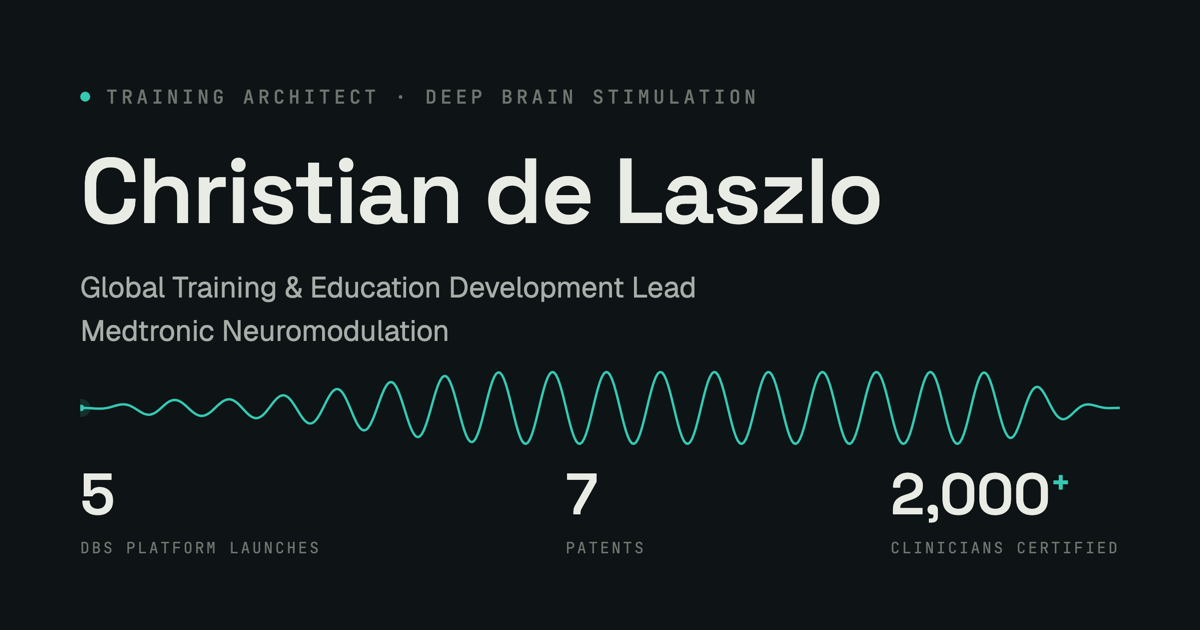
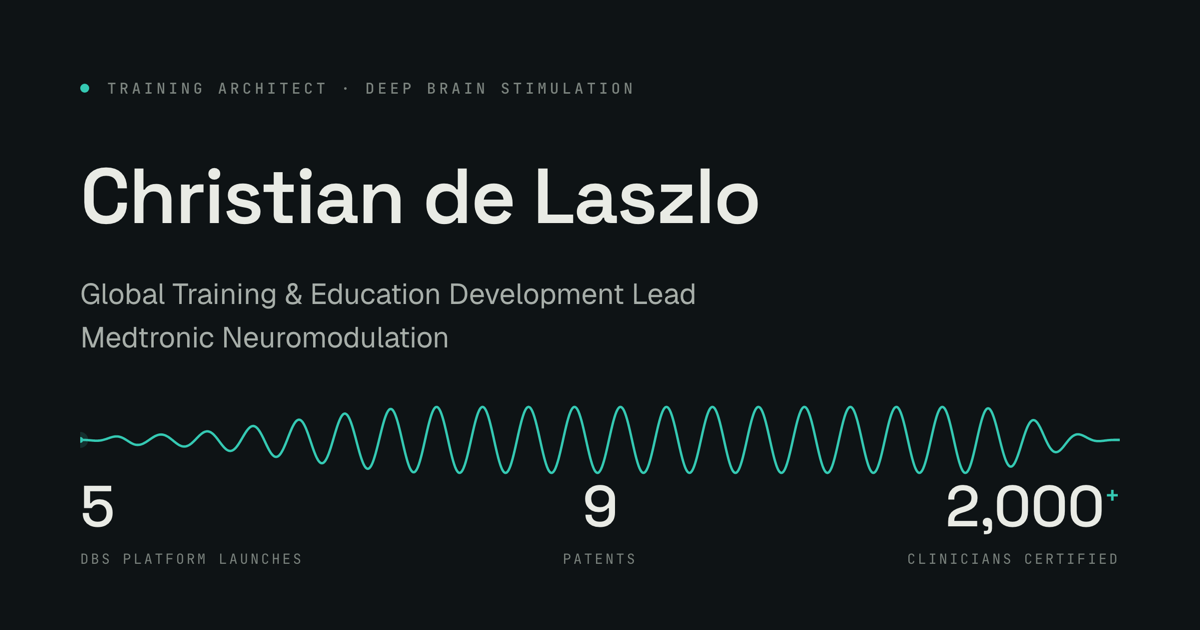
Two 2026 patents (lead inventor); drop section index numerals

diff --git a/index.html b/index.html
@@ -5,7 +5,7 @@
 <meta name="viewport" content="width=device-width, initial-scale=1" />
 <title>Christian de Laszlo · Training Architect, Deep Brain Stimulation</title>
 
-<meta name="description" content="Christian de Laszlo is Global Training &amp; Education Development Lead at Medtronic Neuromodulation. Training architect for Deep Brain Stimulation, 7 patents, and a recognized voice on AI in neuromodulation." />
+<meta name="description" content="Christian de Laszlo is Global Training &amp; Education Development Lead at Medtronic Neuromodulation. Training architect for Deep Brain Stimulation, 9 patents, and a recognized voice on AI in neuromodulation." />
 <meta name="author" content="Christian de Laszlo" />
 <meta name="robots" content="index, follow" />
 <link rel="canonical" href="https://www.cdelaszlo.com/" />
@@ -13,18 +13,18 @@
 <!-- Open Graph (link previews: LinkedIn, Slack, iMessage) -->
 <meta property="og:type" content="profile" />
 <meta property="og:title" content="Christian de Laszlo · Training Architect, Deep Brain Stimulation" />
-<meta property="og:description" content="Global Training &amp; Education Development Lead at Medtronic Neuromodulation. 5 DBS platform launches, 7 patents, 2,000+ clinicians certified. AI in neuromodulation." />
+<meta property="og:description" content="Global Training &amp; Education Development Lead at Medtronic Neuromodulation. 5 DBS platform launches, 9 patents, 2,000+ clinicians certified. AI in neuromodulation." />
 <meta property="og:url" content="https://www.cdelaszlo.com/" />
-<meta property="og:image" content="https://www.cdelaszlo.com/og-image.png?v=2" />
+<meta property="og:image" content="https://www.cdelaszlo.com/og-image.png?v=3" />
 <meta property="og:image:width" content="1200" />
 <meta property="og:image:height" content="630" />
-<meta property="og:image:alt" content="Christian de Laszlo — Training Architect, Deep Brain Stimulation. 5 DBS platform launches, 7 patents, 2,000+ clinicians certified." />
+<meta property="og:image:alt" content="Christian de Laszlo — Training Architect, Deep Brain Stimulation. 5 DBS platform launches, 9 patents, 2,000+ clinicians certified." />
 
 <!-- Twitter/X card -->
 <meta name="twitter:card" content="summary_large_image" />
 <meta name="twitter:title" content="Christian de Laszlo · Training Architect, Deep Brain Stimulation" />
-<meta name="twitter:description" content="Global Training &amp; Education Development Lead at Medtronic Neuromodulation. 5 DBS platform launches, 7 patents, 2,000+ clinicians certified." />
-<meta name="twitter:image" content="https://www.cdelaszlo.com/og-image.png?v=2" />
+<meta name="twitter:description" content="Global Training &amp; Education Development Lead at Medtronic Neuromodulation. 5 DBS platform launches, 9 patents, 2,000+ clinicians certified." />
+<meta name="twitter:image" content="https://www.cdelaszlo.com/og-image.png?v=3" />
 
 <meta name="google-site-verification" content="dpwuC1n6WgR3qlERzvZDWhXc-PhsXKfV_6kqNqxKpe4" />
 
@@ -43,7 +43,7 @@
   "@context": "https://schema.org",
   "@type": "ProfilePage",
   "url": "https://www.cdelaszlo.com/",
-  "dateModified": "2026-07-13T12:00:00-04:00",
+  "dateModified": "2026-07-31T12:00:00-04:00",
   "mainEntity": {
     "@type": "Person",
     "@id": "https://www.cdelaszlo.com/#person",
@@ -65,7 +65,7 @@
       "name": "Cornell University"
     },
     "url": "https://www.cdelaszlo.com/",
-    "image": "https://www.cdelaszlo.com/og-image.png?v=2",
+    "image": "https://www.cdelaszlo.com/og-image.png?v=3",
     "sameAs": [
       "https://www.linkedin.com/in/christian-de-laszlo-43b63642/",
       "https://github.com/speedv15"
@@ -184,8 +184,8 @@
         <div class="stat-desc">Healthcare professionals trained globally</div>
       </div>
       <div class="stat">
-        <div class="stat-num num">7</div>
-        <div class="stat-desc">Patented automation tools, 4 as lead inventor</div>
+        <div class="stat-num num">9</div>
+        <div class="stat-desc">Patented automation tools, 6 as lead inventor</div>
       </div>
     </div>
   </div>
@@ -193,7 +193,7 @@
   <section id="experience">
     <div class="wrap">
       <div class="sec-head reveal">
-        <h2><span class="idx">01</span>Experience</h2>
+        <h2>Experience</h2>
         <div class="sec-meta mono">2011–present · 13 years</div>
       </div>
 
@@ -211,7 +211,7 @@
             <ul>
               <li>Training lead for five major DBS platform launches, including the largest commercial brain-computer interface launch in history</li>
               <li>Trained 70%+ of the current US DBS sales force; 2,000+ healthcare professionals trained globally</li>
-              <li>Invented 7 patented automation tools (4 as lead inventor) solving real-world usability and scaling problems</li>
+              <li>Invented 9 patented automation tools (6 as lead inventor) solving real-world usability and scaling problems</li>
               <li>Led the BrainSense Virtual Patient simulator, which delivers 5–10× ROI and is now a critical competitive advantage</li>
               <li>Primary subject-matter expert for Medical Safety on programming, BrainSense, Adaptive DBS, and surgical procedures</li>
               <li>Recognized voice on where AI fits in neuromodulation, from clinician-facing tools to how the field learns and scales</li>
@@ -271,7 +271,7 @@
   <section id="launches">
     <div class="wrap">
       <div class="sec-head reveal">
-        <h2><span class="idx">02</span>Five launches</h2>
+        <h2>Five launches</h2>
         <div class="sec-meta mono">Training lead · global scale</div>
       </div>
       <div class="launches reveal">
@@ -309,7 +309,7 @@
   <section id="build" class="analog-region">
     <div class="wrap">
       <div class="sec-head reveal">
-        <h2><span class="idx">03</span>Things I build</h2>
+        <h2>Things I build</h2>
         <div class="sec-meta mono">Personal · nights &amp; weekends</div>
       </div>
       <div class="build-grid reveal">
@@ -351,7 +351,7 @@
   <section id="skills">
     <div class="wrap">
       <div class="sec-head reveal">
-        <h2><span class="idx">04</span>Skills</h2>
+        <h2>Skills</h2>
         <div class="sec-meta mono">Three disciplines · one bridge</div>
       </div>
       <div class="skills reveal">
@@ -365,7 +365,7 @@
         </div>
         <div class="skill">
           <div class="skill-label">Automation &amp; Applied AI</div>
-          <p class="skill-list">Workflow automation (7 patents) · Process optimization for scale · LLM application for training and documentation · Tool development for clinical operations</p>
+          <p class="skill-list">Workflow automation (9 patents) · Process optimization for scale · LLM application for training and documentation · Tool development for clinical operations</p>
         </div>
       </div>
     </div>
@@ -384,11 +384,11 @@
     <div class="wrap duo">
       <div class="reveal">
         <div class="sec-head" style="margin-bottom: 28px;">
-          <h2><span class="idx">05</span>Patents</h2>
+          <h2>Patents</h2>
         </div>
         <div class="patents-figure">
-          <div class="patents-num num">7</div>
-          <div class="patents-note"><strong>4 as lead inventor</strong></div>
+          <div class="patents-num num">9</div>
+          <div class="patents-note"><strong>6 as lead inventor</strong></div>
         </div>
         <p class="patents-desc">
           Patented automation tools born from watching clinicians work. Each one
@@ -396,6 +396,16 @@
           gets programmed, taught, and delivered.
         </p>
         <ul class="patent-list">
+          <li class="patent-row">
+            <span class="patent-name patent-proprietary">Proprietary</span>
+            <span class="patent-year">2026</span>
+            <span class="patent-role is-lead">Lead Inventor</span>
+          </li>
+          <li class="patent-row">
+            <span class="patent-name patent-proprietary">Proprietary</span>
+            <span class="patent-year">2026</span>
+            <span class="patent-role is-lead">Lead Inventor</span>
+          </li>
           <li class="patent-row">
             <span class="patent-name patent-proprietary">Proprietary</span>
             <span class="patent-year">2025</span>
@@ -436,7 +446,7 @@
       </div>
       <div class="reveal">
         <div class="sec-head" style="margin-bottom: 28px;">
-          <h2><span class="idx">06</span>Education</h2>
+          <h2>Education</h2>
         </div>
         <div class="edu-school">Cornell University</div>
         <div class="edu-degree">B.S. Human Biology, Health &amp; Society · 2013</div>
@@ -451,7 +461,7 @@
   <section id="recognition">
     <div class="wrap">
       <div class="sec-head reveal">
-        <h2><span class="idx">07</span>Recognition</h2>
+        <h2>Recognition</h2>
       </div>
 
       <a class="accolade reveal" href="https://time.com/collections/best-inventions-2025/7318446/medtronic-brainsense-adbs/" target="_blank" rel="noopener">

diff --git a/public/docs/resume.html b/public/docs/resume.html
@@ -5,7 +5,7 @@
     <meta name="viewport" content="width=device-width, initial-scale=1" />
     <title>Christian de Laszlo — Resume</title>
 
-    <meta name="description" content="Resume of Christian de Laszlo — Global Training &amp; Education Development Lead at Medtronic Neuromodulation. Training lead for five DBS platform launches, 7 patents, 2,000+ clinicians certified." />
+    <meta name="description" content="Resume of Christian de Laszlo — Global Training &amp; Education Development Lead at Medtronic Neuromodulation. Training lead for five DBS platform launches, 9 patents, 2,000+ clinicians certified." />
     <meta name="author" content="Christian de Laszlo" />
     <meta name="robots" content="index, follow" />
     <link rel="canonical" href="https://www.cdelaszlo.com/docs/resume.html" />
@@ -17,14 +17,14 @@
     <!-- Open Graph / Twitter link previews -->
     <meta property="og:type" content="profile" />
     <meta property="og:title" content="Christian de Laszlo — Resume" />
-    <meta property="og:description" content="Global Training &amp; Education Development Lead at Medtronic Neuromodulation. 5 DBS platform launches, 7 patents, 2,000+ clinicians certified." />
+    <meta property="og:description" content="Global Training &amp; Education Development Lead at Medtronic Neuromodulation. 5 DBS platform launches, 9 patents, 2,000+ clinicians certified." />
     <meta property="og:url" content="https://www.cdelaszlo.com/docs/resume.html" />
-    <meta property="og:image" content="https://www.cdelaszlo.com/og-image.png?v=2" />
+    <meta property="og:image" content="https://www.cdelaszlo.com/og-image.png?v=3" />
     <meta property="og:image:width" content="1200" />
     <meta property="og:image:height" content="630" />
     <meta name="twitter:card" content="summary_large_image" />
     <meta name="twitter:title" content="Christian de Laszlo — Resume" />
-    <meta name="twitter:image" content="https://www.cdelaszlo.com/og-image.png?v=2" />
+    <meta name="twitter:image" content="https://www.cdelaszlo.com/og-image.png?v=3" />
 
     <!-- Structured data: this resume describes the same person as the main page -->
     <script type="application/ld+json">
@@ -72,7 +72,7 @@
 <ul>
 <li>Training lead for five major DBS platform launches (Percept PC, SenSight, Percept RC, Adaptive DBS &amp; Electrode Identifier)—created clinical workflows, curricula, and field readiness programs for each</li>
 <li>Trained 70%+ of current US DBS sales force; 2,000+ healthcare professionals certified globally</li>
-<li>Invented 7 patented automation tools (4 as lead inventor) solving real-world usability and scaling problems</li>
+<li>Invented 9 patented automation tools (6 as lead inventor) solving real-world usability and scaling problems</li>
 <li>Led development of BrainSense Virtual Patient simulator—delivered 5-10x ROI, became critical competitive advantage</li>
 <li>Primary SME for Medical Safety on programming, BrainSense, Adaptive DBS, and surgical procedures</li>
 </ul>

diff --git a/src/styles.css b/src/styles.css
@@ -212,7 +212,6 @@ section { padding: 84px 0 0; }
   border-bottom: 1px solid var(--line); padding-bottom: 16px;
 }
 h2 { font-size: 32px; margin: 0; }
-h2 .idx { font-family: var(--font-mono); font-size: 13px; font-weight: 400; letter-spacing: 0.08em; color: var(--accent); vertical-align: 12px; margin-right: 12px; }
 .sec-meta { color: var(--ink-faint); white-space: nowrap; }
 
 /* ── Card motif: 3px accent left-rail ────────────── */

diff --git a/public/content/website.md b/public/content/website.md
@@ -14,8 +14,8 @@
     <span class="stat-label">major platform launches</span>
   </div>
   <div class="stat-item">
-    <span class="stat-number">7</span>
-    <span class="stat-label">patents filed (4 as lead inventor)</span>
+    <span class="stat-number">9</span>
+    <span class="stat-label">patents filed (6 as lead inventor)</span>
   </div>
 </div>
 
@@ -74,9 +74,19 @@ Communicating until adoption happens: the educational programs that prepare fiel
 <summary><h2>Patents & Innovation</h2><span class="collapse-icon"></span></summary>
 <div class="section-content">
 
-Invented automation systems that solved real scaling problems. **7 patents filed, 4 as lead inventor.**
+Invented automation systems that solved real scaling problems. **9 patents filed, 6 as lead inventor.**
 
 <div class="patent-grid">
+  <div class="patent-row">
+    <span class="patent-name patent-proprietary">Proprietary</span>
+    <span class="patent-year">2026</span>
+    <span class="patent-lead">Lead Inventor</span>
+  </div>
+  <div class="patent-row">
+    <span class="patent-name patent-proprietary">Proprietary</span>
+    <span class="patent-year">2026</span>
+    <span class="patent-lead">Lead Inventor</span>
+  </div>
   <div class="patent-row">
     <span class="patent-name patent-proprietary">Proprietary</span>
     <span class="patent-year">2025</span>
@@ -132,7 +142,7 @@ Clinical workflow design · Curriculum architecture · Certification program dev
 Deep brain stimulation programming · BrainSense neural sensing · Adaptive/closed-loop DBS · LFP signal interpretation · Implantable pulse generators · Movement disorder therapeutics
 
 **Automation & Applied AI**
-Workflow automation (7 patents) · Process optimization for scale · LLM application for training and documentation · Tool development for clinical operations
+Workflow automation (9 patents) · Process optimization for scale · LLM application for training and documentation · Tool development for clinical operations
 
 </div>
 

diff --git a/public/content/resume.md b/public/content/resume.md
@@ -9,7 +9,7 @@ I make complex technology usable at scale. As Medtronic's training architect for
 *Global Training & Education Development Lead* (2018–Present)
 - Training lead for five major DBS platform launches (Percept PC, SenSight, Percept RC, Adaptive DBS & Electrode Identifier)—created clinical workflows, curricula, and field readiness programs for each
 - Trained 70%+ of current US DBS sales force; 2,000+ healthcare professionals certified globally
-- Invented 7 patented automation tools (4 as lead inventor) solving real-world usability and scaling problems
+- Invented 9 patented automation tools (6 as lead inventor) solving real-world usability and scaling problems
 - Led development of BrainSense Virtual Patient simulator—delivered 5-10x ROI, became critical competitive advantage
 - Primary SME for Medical Safety on programming, BrainSense, Adaptive DBS, and surgical procedures
 
